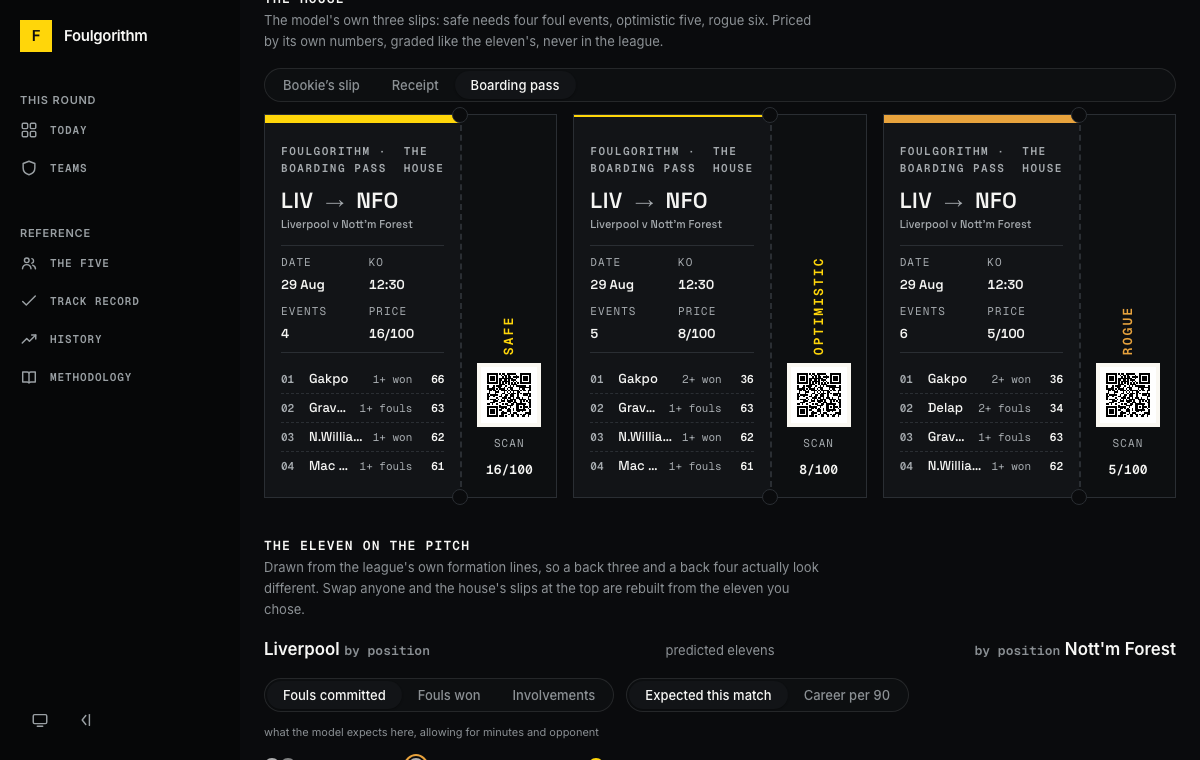
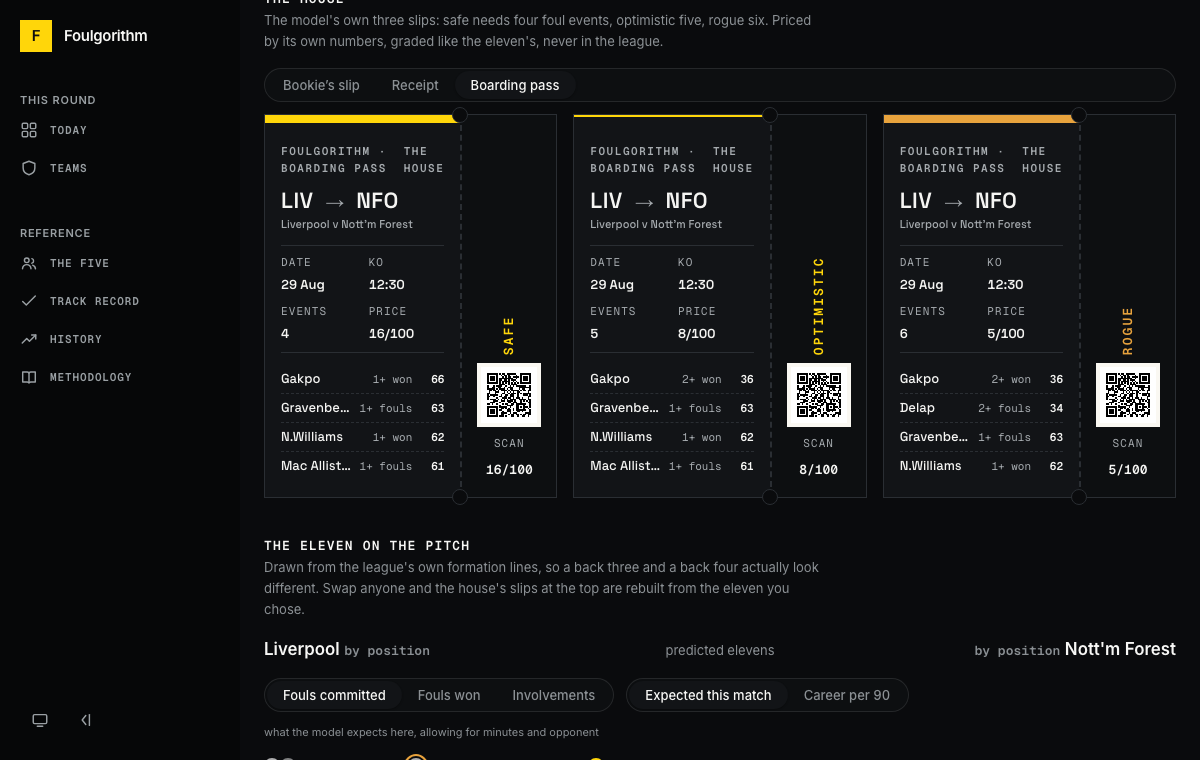
Anchor the bookie's stamp to the rows; give the pass its names back

Changed region(s): [[0.4933, 0.4842, 0.555, 0.6355], [0.74, 0.4842, 0.8017, 0.6355], [0.2158, 0.4842, 0.2775, 0.6355]]

diff --git a/site/components/five/bets.module.css b/site/components/five/bets.module.css
@@ -482,7 +482,7 @@
 
 .tRow {
   display: grid;
-  grid-template-columns: var(--s5) minmax(0, 1fr) auto var(--s6);
+  grid-template-columns: minmax(0, 1fr) auto var(--s6);
   gap: var(--s2);
   align-items: baseline;
   padding: var(--s1) 0;
@@ -493,11 +493,10 @@
   border-top: 1px dashed var(--ticket-line);
 }
 
+/* Seat numbers were the column that made names truncate at three across.
+   The rows are ordered anyway; the number said nothing the order did not. */
 .tSeat {
-  font-family: var(--font-mono);
-  font-size: var(--t-xs);
-  font-weight: 600;
-  color: var(--on-hero-2);
+  display: none;
 }
 
 .tName {
@@ -665,7 +664,7 @@
 .sStamp {
   position: absolute;
   right: var(--s5);
-  bottom: var(--s10);
+  top: var(--s8);
   transform: rotate(9deg);
   border: 3px double var(--ink-stamp);
   color: var(--ink-stamp);
